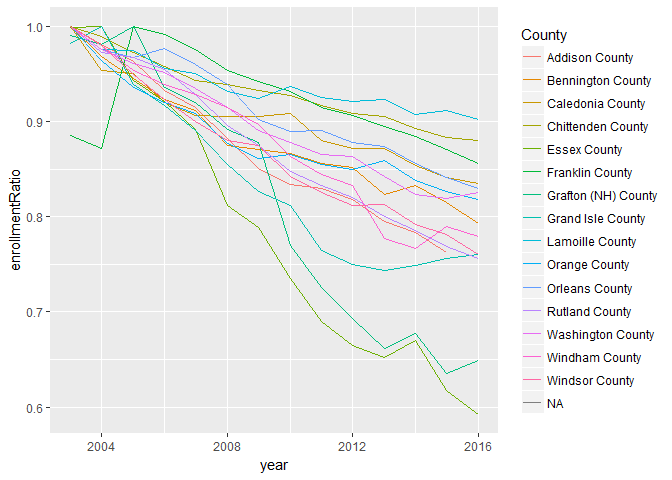
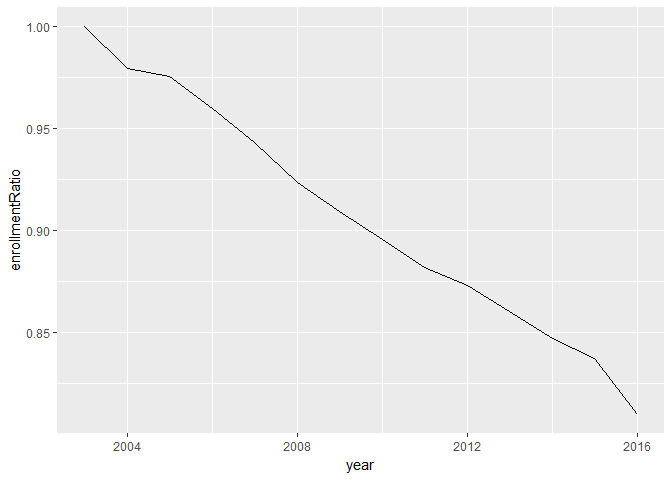
Add an overall state chart + some Burlington focus

diff --git a/README.md b/README.md
@@ -1,7 +1,9 @@
 Burlington, VT, School Enrollment
 ================
 Alex Reutter
-2017-10-20
+2017-11-12
+
+    ## Warning: package 'knitr' was built under R version 3.3.3
 
 The purpose of this project is to help shed some light on questions surrounding enrollment in schools in Vermont, especially the Burlington district. It is a reference from which easier-to-consume conclusions and recommendations can be drawn.
 
@@ -51,17 +53,89 @@ Unfortunately, the VTAOE reports are not in good condition for performing furthe
 State-level analysis
 --------------------
 
-It is clear that, across Vermont, total K-12 enrollment is decreasing. The plot below shows that the rate of decline differs from county to county. There is a separate line to represent each county, which shows the enrollment in that county, relative to the maximum enrollment observed over the last 13 years. Essex and Grafton counties have experienced the most severe declines, while Lamoille and Chittenden county have seen the least declines.
+It is clear that, in Vermont as a whole, total K-12 enrollment is decreasing, and over the last 14 years, the decline is near the [20% claimed by Sec. Holcombe](http://www.burlingtonfreepress.com/story/news/local/vermont/2017/10/19/vermont-education-budget-gap-may-have-burlington-tightening-its-belt/745578001/).
 
 ![](./README-fig/unnamed-chunk-3-1.png)
 
-I am displaying a ratio rather than the total enrollment because this makes the year-to-year changes easier to compare across counties.
+The plot below shows that the rate of decline differs from county to county. There is a separate line to represent each county, which shows the enrollment in that county, relative to the maximum enrollment observed over the last 13 years. Essex and Grafton counties have experienced the most severe declines, while Lamoille and Chittenden county have seen the least declines.
+
+![](./README-fig/unnamed-chunk-4-1.png)
+
+This chart displays a ratio rather than the total enrollment because this makes the year-to-year changes easier to compare across counties.
 
 Chittenden county-level analysis
 --------------------------------
 
 Let’s look more closely at the supervisory unions and school districts within Chittenden county. This is the same style of plot as shown for comparing the county-to-county enrollment, but here there is a separate line to represent each supervisory union or school district.
 
-What this plot shows is that, within Chittenden county, most districts appear to be experiencing a decline in K-12 enrollment; however, Burlington has held steady.
+What this plot shows is that, within Chittenden county, most districts appear to have experienced a decline in K-12 enrollment; however, Burlington has held steady.
 
-![](./README-fig/unnamed-chunk-4-1.png)
+![](./README-fig/unnamed-chunk-5-1.png)
+
+Focus on Burlington
+-------------------
+
+The following table shows the year-by-year total enrollment in Burlington School District, not including the Pre-K students.
+
+|  year|  EnrollmentSum|  maxEnrollment|  enrollmentRatio|
+|-----:|--------------:|--------------:|----------------:|
+|  2003|           3535|           3611|        0.9789532|
+|  2004|           3517|           3611|        0.9739684|
+|  2005|           3510|           3611|        0.9720299|
+|  2006|           3515|           3611|        0.9734146|
+|  2007|           3487|           3611|        0.9656605|
+|  2008|           3498|           3611|        0.9687067|
+|  2009|           3466|           3611|        0.9598449|
+|  2010|           3556|           3611|        0.9847688|
+|  2011|           3527|           3611|        0.9767377|
+|  2012|           3588|           3611|        0.9936306|
+|  2013|           3611|           3611|        1.0000000|
+|  2014|           3549|           3611|        0.9828302|
+|  2015|           3567|           3611|        0.9878150|
+|  2016|           3502|           3611|        0.9698145|
+
+This chart breaks it down by school.
+
+![](./README-fig/unnamed-chunk-7-1.png)
+
+The following table shows the year-by-year total enrollment in Burlington School District, *including* the Pre-K children.
+
+|  year|  EnrollmentSum|  maxEnrollment|  enrollmentRatio|
+|-----:|--------------:|--------------:|----------------:|
+|  2003|           3611|           4006|        0.9013979|
+|  2004|           3577|           4006|        0.8929106|
+|  2005|           3589|           4006|        0.8959061|
+|  2006|           3546|           4006|        0.8851722|
+|  2007|           3520|           4006|        0.8786820|
+|  2008|           3549|           4006|        0.8859211|
+|  2009|           3527|           4006|        0.8804294|
+|  2010|           3613|           4006|        0.9018972|
+|  2011|           3606|           4006|        0.9001498|
+|  2012|           3970|           4006|        0.9910135|
+|  2013|           4006|           4006|        1.0000000|
+|  2014|           3971|           4006|        0.9912631|
+|  2015|           3962|           4006|        0.9890165|
+|  2016|           3950|           4006|        0.9860210|
+
+This chart breaks it down by school.
+
+![](./README-fig/unnamed-chunk-9-1.png)
+
+That is the Champlain School whose enrollment suddenly jumped in the 2012-2013 school year, due to the addition of Pre-K students.
+
+|  year|  EnrollmentSum|  maxEnrollment|  enrollmentRatio|
+|-----:|--------------:|--------------:|----------------:|
+|  2003|            287|            667|        0.4302849|
+|  2004|            278|            667|        0.4167916|
+|  2005|            293|            667|        0.4392804|
+|  2006|            290|            667|        0.4347826|
+|  2007|            288|            667|        0.4317841|
+|  2008|            317|            667|        0.4752624|
+|  2009|            324|            667|        0.4857571|
+|  2010|            337|            667|        0.5052474|
+|  2011|            334|            667|        0.5007496|
+|  2012|            626|            667|        0.9385307|
+|  2013|            637|            667|        0.9550225|
+|  2014|            635|            667|        0.9520240|
+|  2015|            615|            667|        0.9220390|
+|  2016|            667|            667|        1.0000000|
